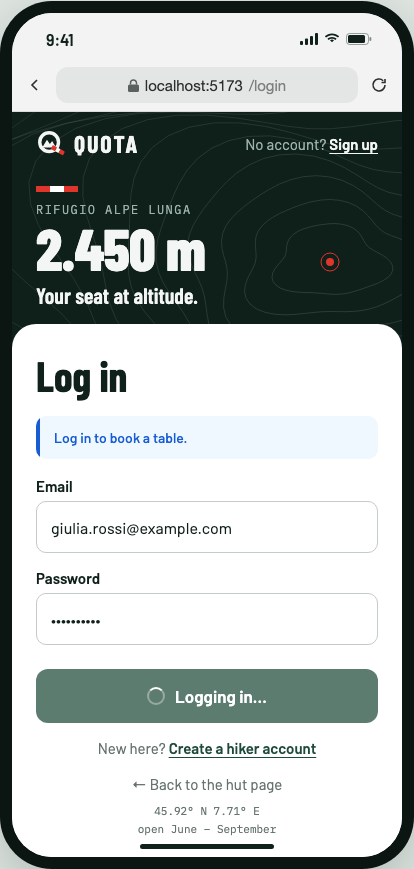
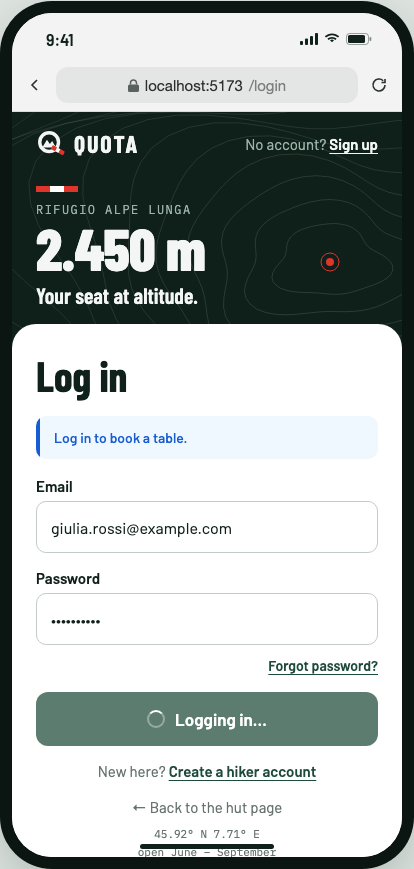
docs: add the forgot password flow to the login mockup (MH-45)
Review of #8: the hut staff must never know or set a hiker's password.
"Forgot password?" now opens a reset by email: ask for a link, check
your email, choose a new password, link expired, password changed.
Five desktop and five phone screens, in Figma and in the repo; the
README lists the steps, the texts and the server answers.

Changed region(s): [[0.087, 0.7457, 0.9275, 0.9942]]

diff --git a/docs/mockups/login/phone.html b/docs/mockups/login/phone.html
@@ -74,6 +74,8 @@
   .btn.busy { background: #5D7C70; }
   .btn.outline { background: var(--snow); color: var(--ink); border: 1px solid var(--input-border); }
   .spinner { width: 18px; height: 18px; border-radius: 50%; border: 2.5px solid rgba(255,255,255,.35); border-top-color: #fff; }
+  .forgot { text-align: right; font-size: 14px; margin: -4px 0 18px; }
+  .forgot b { color: var(--pine); text-decoration: underline; text-underline-offset: 3px; font-weight: 600; }
   .alt-line { text-align: center; color: var(--stone); font-size: 15px; margin-top: 16px; }
   .alt-line b { color: var(--pine); text-decoration: underline; text-underline-offset: 3px; }
   .alert { display: flex; border-radius: 10px; overflow: hidden; font-weight: 500; font-size: 14px; margin-bottom: 18px; line-height: 1.4; }
@@ -166,9 +168,12 @@ const foot = `<div class="foot"><span class="back">← Back to the hut page</spa
 const login = ({ alert, email = {}, password = {}, busy }) => `${status()}${urlbar("/login")}${hero("No account? <b>Sign up</b>")}<div class="form">
   <h1 style="margin-bottom:20px">Log in</h1>${alert || ""}
   ${field({ label: "Email", ph: "name@example.com", ...email })}${field({ label: "Password", ph: "Your password", ...password })}
-  <div style="height:8px"></div>
+  <div class="forgot"><b>Forgot password?</b></div>
   <button class="btn primary ${busy ? "busy" : ""}">${busy ? '<i class="spinner"></i>Logging in…' : "Log in"}</button>
   <div class="alt-line">New here? <b>Create a hiker account</b></div>${foot}</div>`;
+
+const reset = (path, body) => `${status()}${urlbar(path)}${hero("No account? <b>Sign up</b>")}<div class="form">${body}${foot}</div>`;
+const backToLogin = `<div class="alt-line"><b>← Back to log in</b></div>`;
 
 const signup = (f) => `${status()}${urlbar("/signup")}${heroCompact("Already registered? <b>Log in</b>")}<div class="form">
   <h1>Create your account</h1><p class="sub">Fields marked * are required.</p>
@@ -202,6 +207,14 @@ const groups = [
         html: signup({ first: {}, last: {}, email: {}, phone: {}, pw: {}, pw2: {} }) },
       { n: "M6", title: "Sign up, errors", notes: ["Same messages as desktop screen 6. The page scrolls to the first field with an error.", "409: \"Log in\" in the message is a link."], long: true,
         html: signup({ first: { val: "Giulia" }, last: { err: "Enter your last name." }, email: { val: "giulia.rossi@example.com", err: 'An account with this email already exists. <u>Log in</u> instead.' }, phone: { ph: "+39 333 123 4567" }, pw: { val: "••••••", err: "Use at least 8 characters." }, pw2: { val: "•••••••", err: "The passwords are different." } }) },
+    ] },
+  { title: "Forgot password", text: "\"Forgot password?\" on the login page starts the reset. The hiker gets a link by email and chooses a new password; the hut staff never see or set a password. Same flow and texts as desktop screens 8–12.",
+    shots: [
+      { n: "M11", title: "Forgot password", notes: ["The hiker gives the email of the account."], html: reset("/forgot-password", `<h1>Forgot password?</h1><p class="sub">Enter the email of your account. We will send you a link to choose a new password.</p>${field({ label: "Email", ph: "name@example.com" })}<button class="btn primary">Send reset link</button>${backToLogin}`) },
+      { n: "M12", title: "Check your email", notes: ["Same message whether the account exists or not.", "The link works once and for 1 hour."], html: reset("/forgot-password", `<h1 style="margin-bottom:20px">Check your email</h1><div class="alert info"><span>If an account exists for giulia.rossi@example.com, we sent it a link to choose a new password. The link works for 1 hour.</span></div><p class="sub">Nothing in your inbox? Look in the spam folder, or ask for a new link.</p><button class="btn primary">Back to log in</button><div class="alt-line"><b>Send the link again</b></div>`) },
+      { n: "M13", title: "New password", notes: ["Opened from the link in the email.", "Same rules as sign-up."], html: reset("/reset-password", `<h1>New password</h1><p class="sub">For giulia.rossi@example.com</p>${field({ label: "New password", val: "••••••••••" })}${field({ label: "Repeat new password", val: "•••••••••", err: "The passwords are different." })}<button class="btn primary" style="margin-top:6px">Save new password</button>`) },
+      { n: "M14", title: "Link expired", notes: ["After 1 hour or after one use.", "The email is already filled in."], html: reset("/reset-password", `<h1 style="margin-bottom:20px">Link expired</h1><div class="alert error"><span>The link has expired or was already used. Ask for a new one.</span></div>${field({ label: "Email", val: "giulia.rossi@example.com" })}<button class="btn primary">Send a new link</button>${backToLogin}`) },
+      { n: "M15", title: "Password changed", notes: ["Back on the login page, with this note.", "The other sessions are logged out."], html: login({ alert: '<div class="alert info"><span>Your password has changed. Log in with the new one.</span></div>', email: { val: "giulia.rossi@example.com" } }) },
     ] },
   { title: "Navigation", text: "The navbar collapses into a menu button (react-bootstrap <code>Navbar expand=\"lg\"</code>). Opening it shows who is logged in, the pages of that role, and Log out. Desktop screen 7 shows the same three roles.",
     shots: [

diff --git a/docs/mockups/login/README.md b/docs/mockups/login/README.md
@@ -7,7 +7,7 @@ Mockup for the login frontend ([MH-55](https://polito-se2-26-16.youtrack.cloud/i
 | Figma page | What it holds |
 |---|---|
 | **Brand · QUOTA** | Name, logo, palette, typography, motifs and usage rules |
-| **MH-45 Login & sign-up** | The 7 desktop screens and the 10 phone screens below |
+| **MH-45 Login & sign-up** | The 12 desktop screens and the 15 phone screens below |
 | **Components** | Logo, trail blaze, button, text field, alert, navbars, brand panel, phone browser bar and top bar, and the colour variables |
 
 ## The brand in one paragraph
@@ -25,6 +25,11 @@ The app is called **QUOTA**. In Italian *quota* is altitude (huts are signed "qu
 | 5 | Sign up, hikers only | ![Sign up](05-signup.png) |
 | 6 | Sign up, errors | ![Sign up errors](06-signup-errors.png) |
 | 7 | Navbar for each role, and a hiker on a staff page | ![Navbar per role](07-navbar-per-role.png) |
+| 8 | Forgot password | ![Forgot password](08-forgot-password.png) |
+| 9 | Check your email | ![Check your email](09-check-your-email.png) |
+| 10 | Choose a new password | ![New password](10-new-password.png) |
+| 11 | Reset link expired or already used | ![Link expired](11-link-expired.png) |
+| 12 | Password changed, back to the login | ![Password changed](12-password-changed.png) |
 
 Login and sign-up are split screens: the **brand panel** on the left (hut name and altitude on a contour map), the form on the right.
 
@@ -53,6 +58,11 @@ The same website opened in a phone browser, not a separate app: the React pages 
 | 8 | Menu, employee | ![Employee menu](phone/08-menu-employee.png) |
 | 9 | Menu, manager | ![Manager menu](phone/09-menu-manager.png) |
 | 10 | Staff only | ![Staff only on a phone](phone/10-staff-only.png) |
+| 11 | Forgot password | ![Forgot password on a phone](phone/11-forgot-password.png) |
+| 12 | Check your email | ![Check your email on a phone](phone/12-check-your-email.png) |
+| 13 | New password | ![New password on a phone](phone/13-new-password.png) |
+| 14 | Link expired | ![Link expired on a phone](phone/14-link-expired.png) |
+| 15 | Password changed | ![Password changed on a phone](phone/15-password-changed.png) |
 
 ## Behaviour
 
@@ -61,7 +71,7 @@ The same website opened in a phone browser, not a separate app: the React pages 
 - **After login:** a hiker goes to *Book a table*; an employee or the manager goes to *Slots & tables*. If the user came from a protected page (screen 4), send them back there instead.
 - **The blue note on screen 4** ("Log in to book a table.") is shown only when a user who is not logged in opens a protected page and is sent to the login. It says why they landed on the login instead of the page they clicked; without it the jump looks like an error. Opening the login page directly shows no note.
 - **After sign-up:** the hiker is logged in straight away and goes to *Book a table*.
-- **No password reset:** no story asks for one, so the login page has no "Forgot password?" link. Passwords are stored only as hashes: nobody, the hut staff included, can read them. If the team wants a reset, it has to be asked to the product owner first.
+- **Forgot password:** the hiker resets the password alone, with a link sent by email (screens 8–12). Passwords are stored only as hashes: nobody, the hut staff included, can read or set them.
 - **Log out** is in the navbar for every role and goes back to the public hut page.
 - **The navbar shows only the pages that role can use** (screen 7). A hiker who opens a staff page by URL sees the "Staff only" page.
 - **While the request is running** the button is disabled and reads "Logging in…" or "Creating account…".
@@ -93,6 +103,28 @@ Helper texts: Email "Your booking confirmations are sent here." · Phone "Option
 Email already registered (server answers `409`): under the email field, **"An account with this email already exists. Log in instead."** with *Log in* as a link.
 
 All rules except the `409` are checked in the browser before sending, and checked again by the server (`400` if they fail).
+
+### Forgot password
+
+A team decision: no story asks for it, but without it a hiker who forgets the password could not get back into the account, and the staff must never know or set passwords. Like the confirmation of MH-03, it needs the email service.
+
+1. **Login → "Forgot password?"** opens the *Forgot password* page (screen 8): one field, Email.
+2. **Send reset link.** The server always answers the same way (`202`), whether an account exists for that email or not, so nobody can find out which emails are registered. The page shows screen 9.
+3. **The email** holds a link with a random token. The token works **once** and for **1 hour**; asking for a new link cancels the old one.
+4. **The link** opens *Choose a new password* (screen 10): new password and repeat, with the same rules and messages as sign-up.
+5. **Save new password.** The server checks the token and the password (`204`), logs out every other session of that account, and the hiker goes back to the login with the note of screen 12.
+6. **Expired or used link** (`410`): screen 11, with the email already filled in to ask for a new one.
+
+| Where | Text |
+|---|---|
+| Login, under the password | **Forgot password?** |
+| Forgot password, title and text | Forgot password? · Enter the email of your account. We will send you a link to choose a new password. |
+| Forgot password, button | Send reset link · link: ← Back to log in |
+| Link sent | If an account exists for *email*, we sent it a link to choose a new password. The link works for 1 hour. · Nothing in your inbox? Look in the spam folder, or ask for a new link. |
+| New password, title | New password · For *email* |
+| New password, fields | New password · Repeat new password (rules and messages as in sign-up) · button: Save new password |
+| Link expired or used | The link has expired or was already used. Ask for a new one. · button: Send a new link |
+| Back on the login | Your password has changed. Log in with the new one. |
 
 ### Other texts
 
